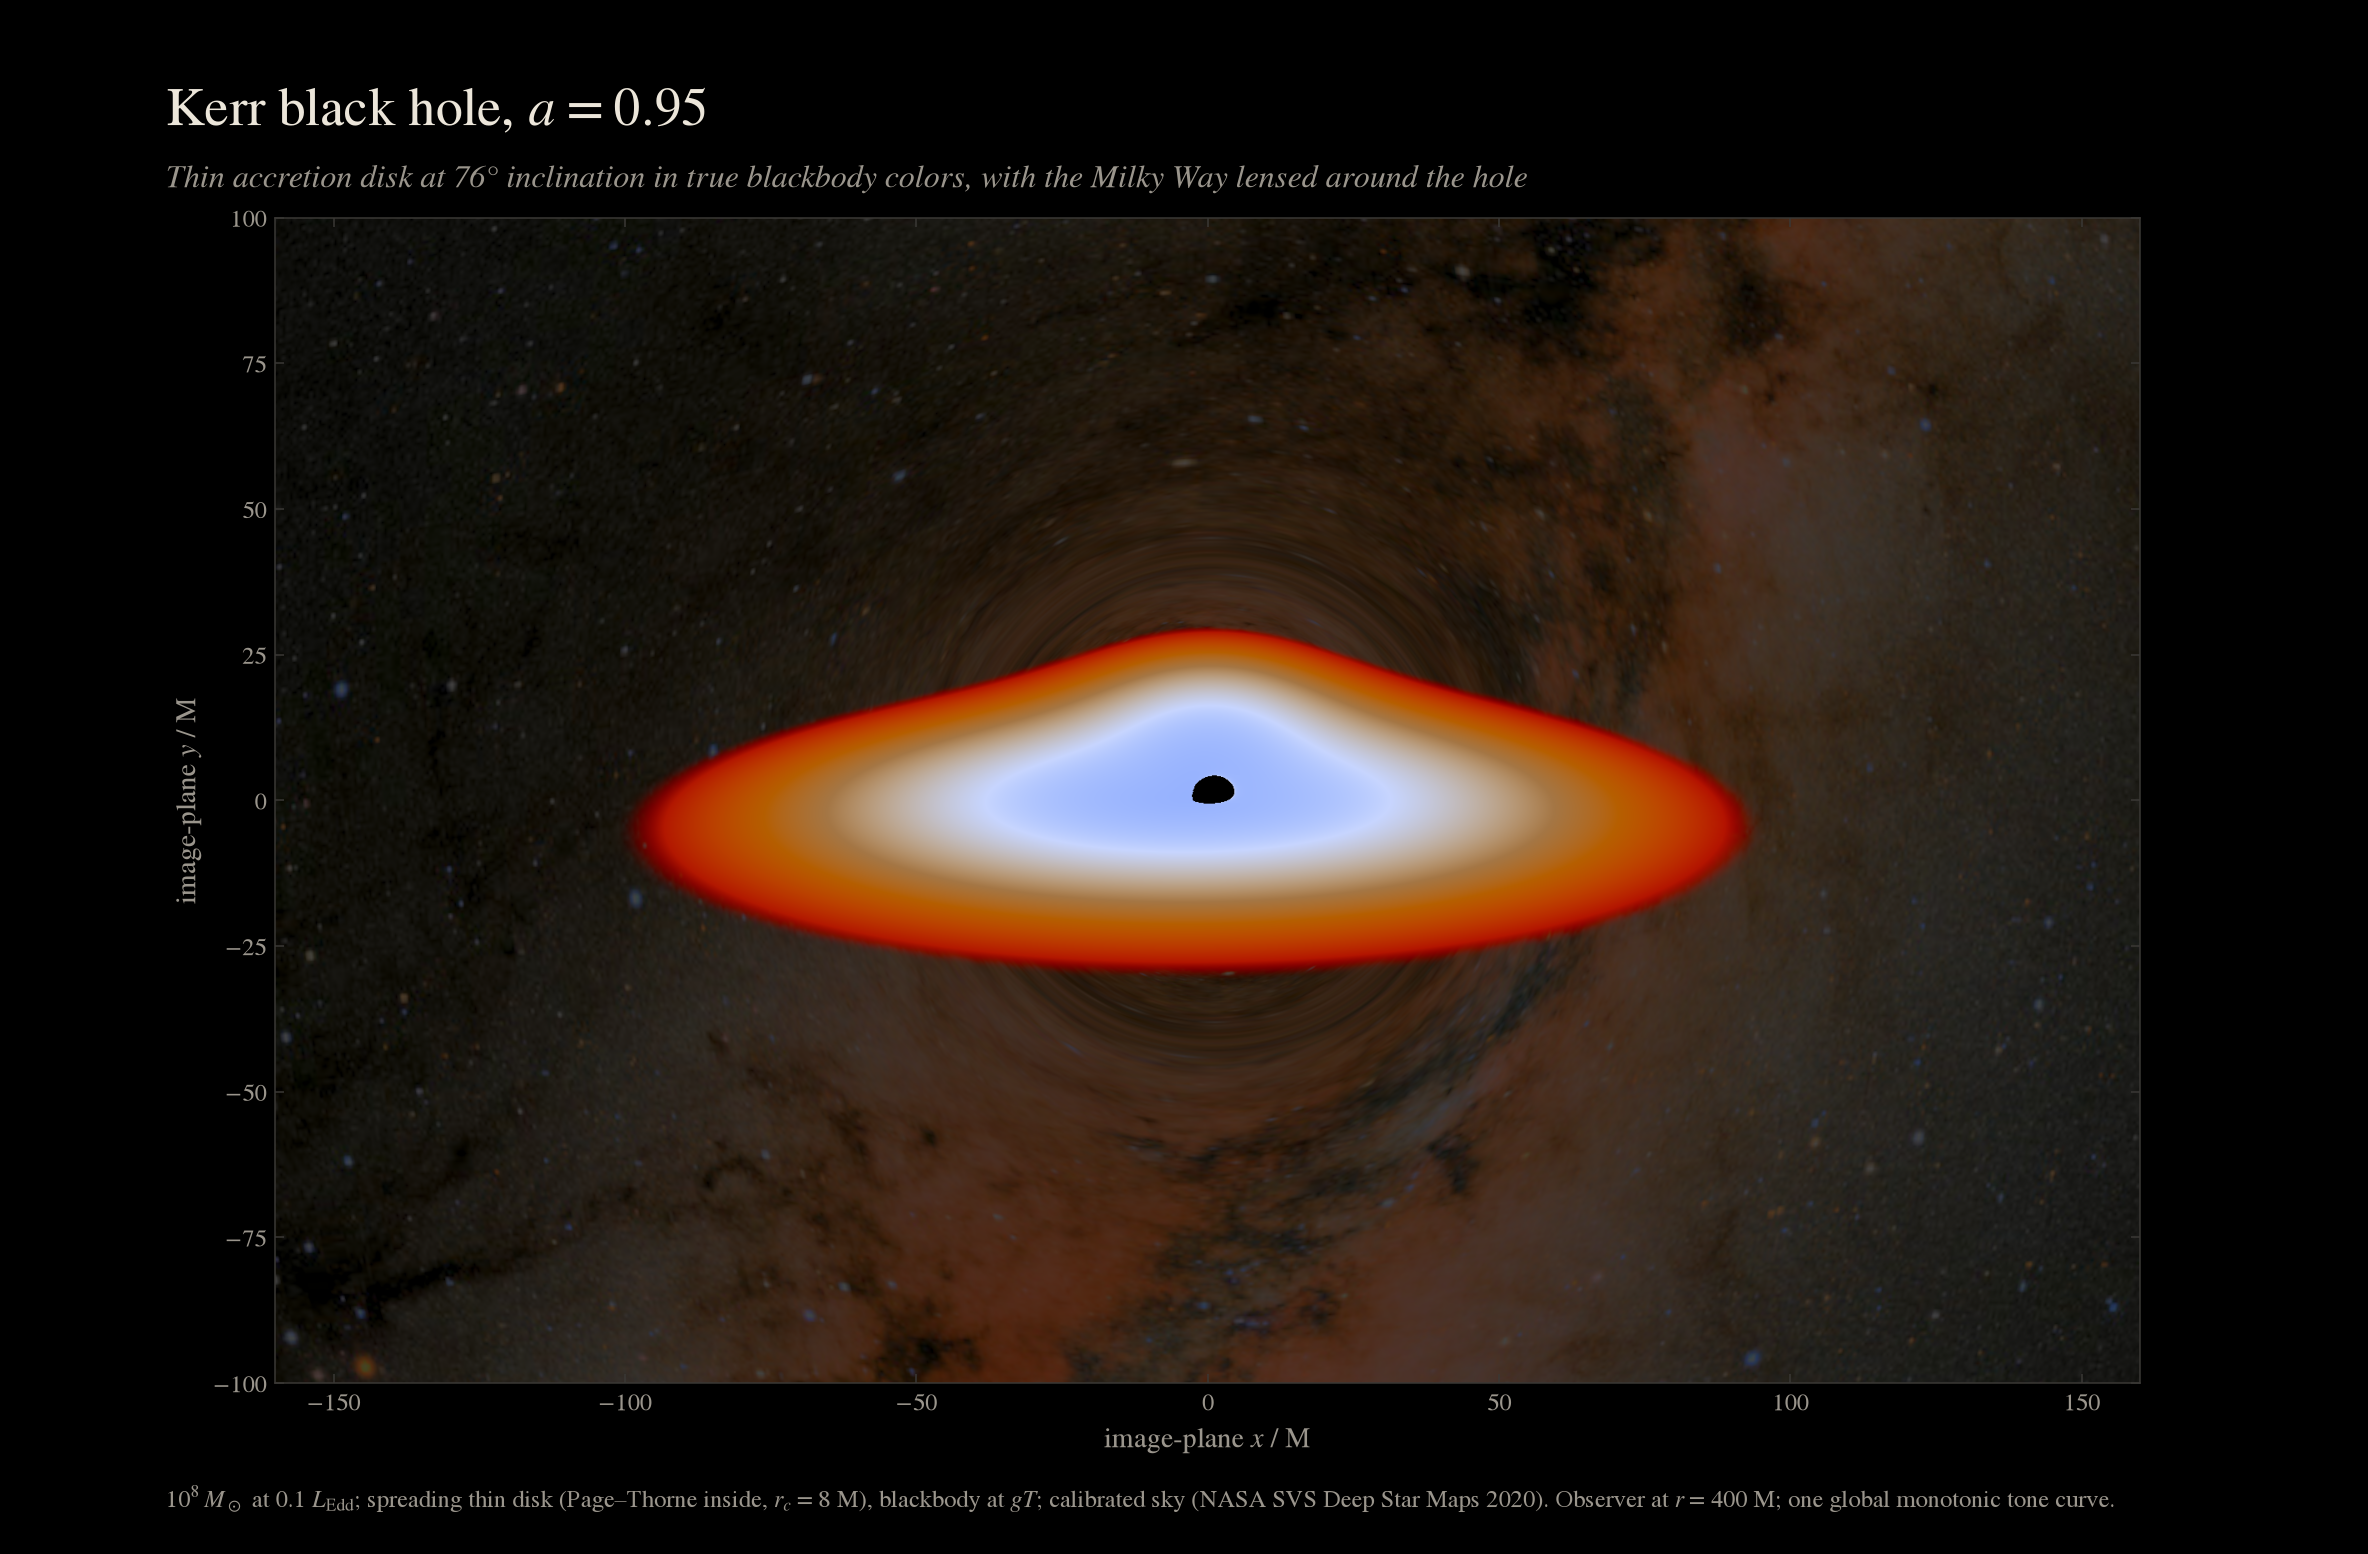
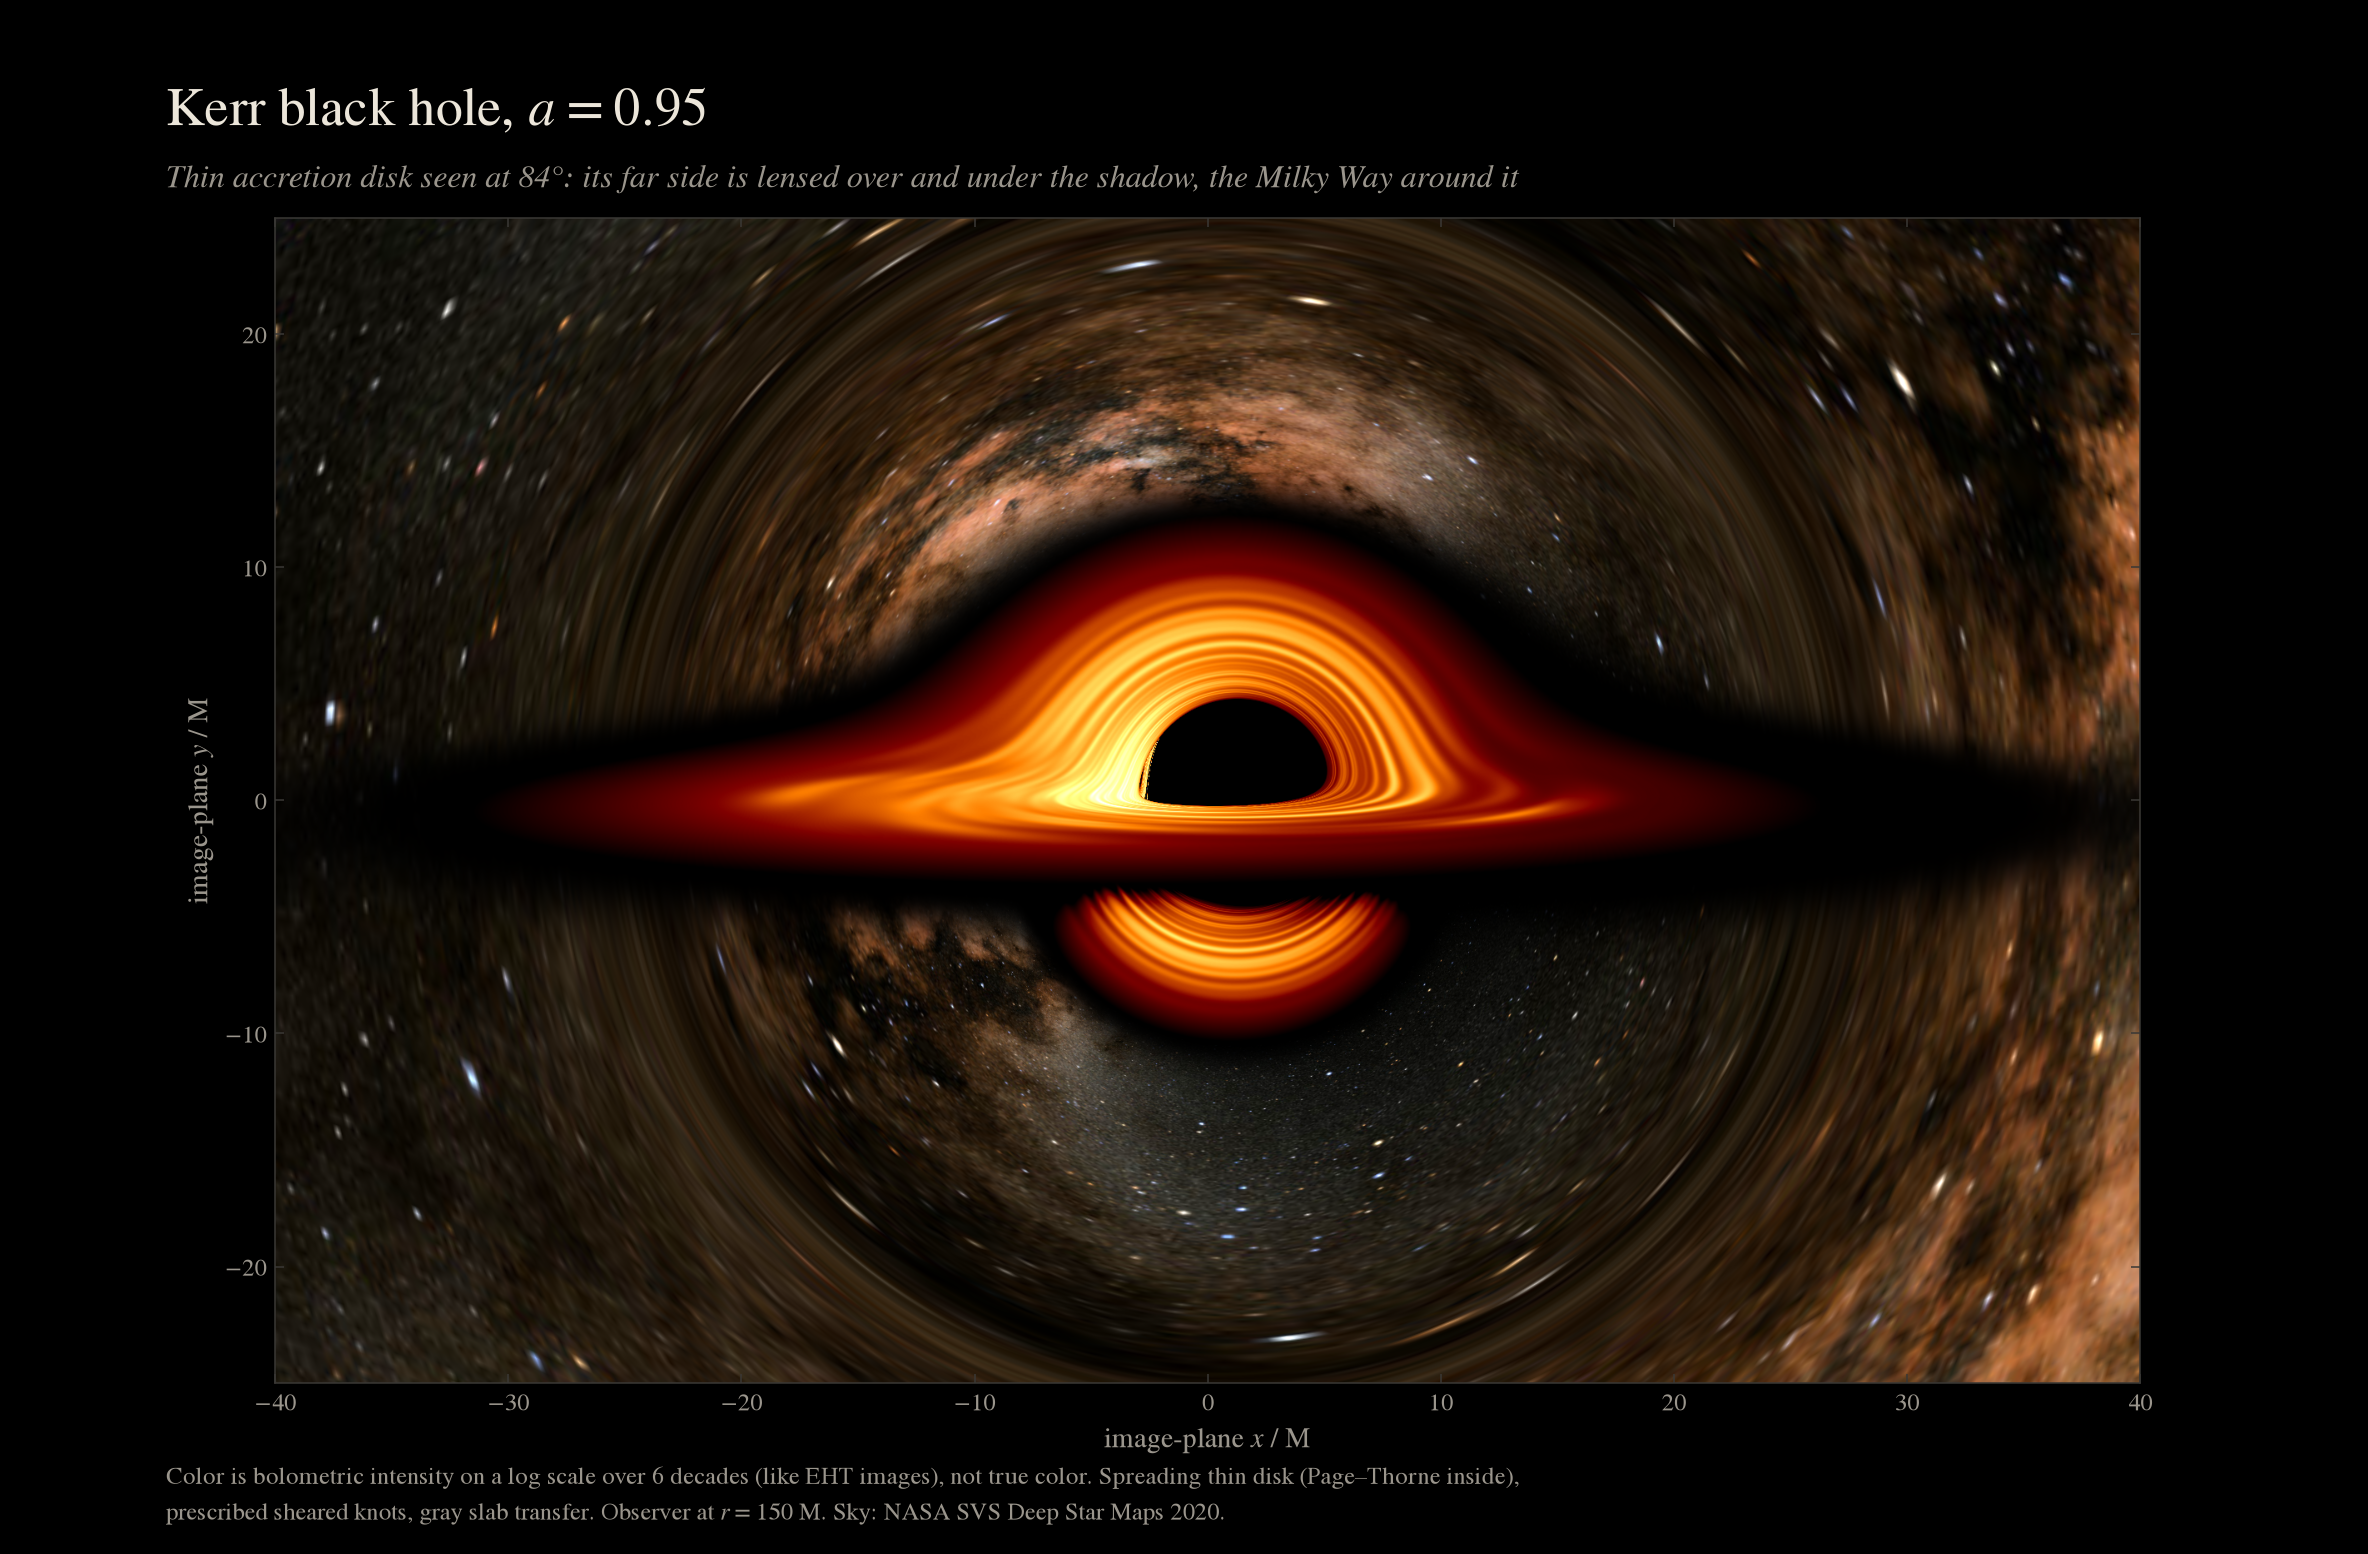
Re-render the README headline: close edge-on view on the log intensity scale
Also wrap the figure footer onto two lines so it fits the canvas.

Claude-Session: https://claude.ai/code/session_01VkfPXxaowxusiJkSsVhnLt

diff --git a/examples/readme_figures.py b/examples/readme_figures.py
@@ -65,12 +65,12 @@ def disk_figure():
     fig.text(0.07, 0.895, "Thin accretion disk seen at 84°: its far side is "
              "lensed over and under the shadow, the Milky Way around it",
              color=MUTED, fontsize=12.5, style="italic", va="top")
-    fig.text(0.07, 0.03,
+    fig.text(0.07, 0.022,
              "Color is bolometric intensity on a log scale over 6 decades "
              "(like EHT images), not true color. Spreading thin disk "
-             "(Page–Thorne inside), prescribed sheared knots, gray slab "
+             "(Page–Thorne inside),\nprescribed sheared knots, gray slab "
              "transfer. Observer at $r = 150$ M. Sky: NASA SVS Deep Star "
-             "Maps 2020.", color=MUTED, fontsize=9.5)
+             "Maps 2020.", color=MUTED, fontsize=9.5, linespacing=1.5)
     fig.savefig(IMAGES / "kerr_disk.png", dpi=185)
     plt.close(fig)
 
